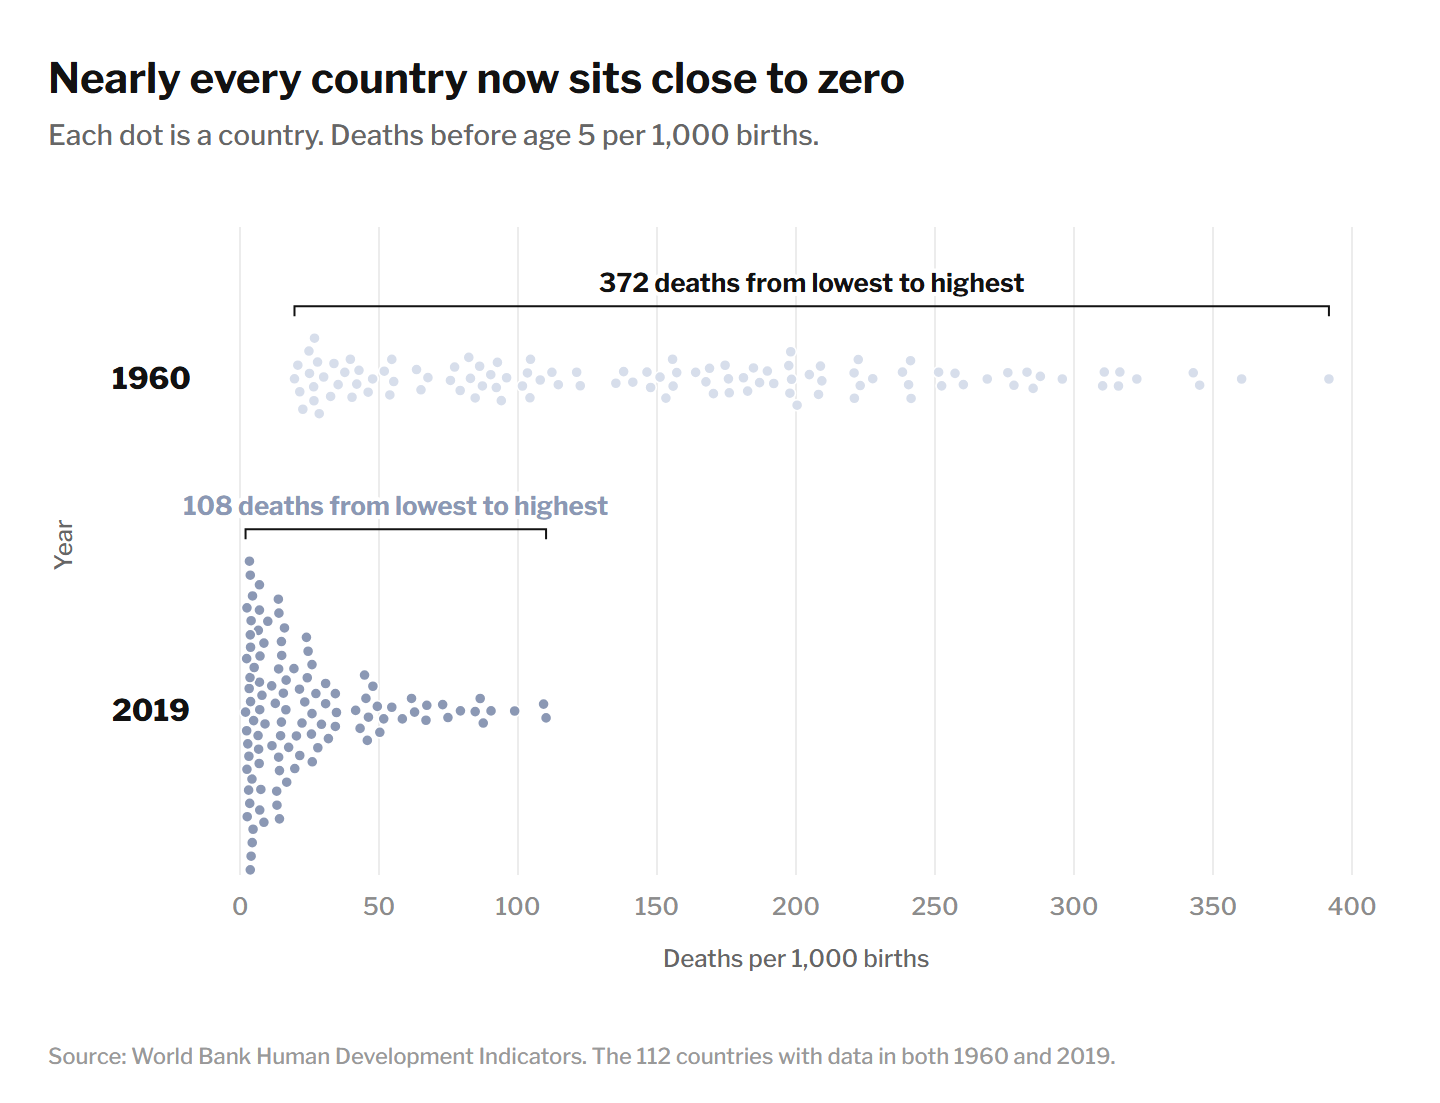
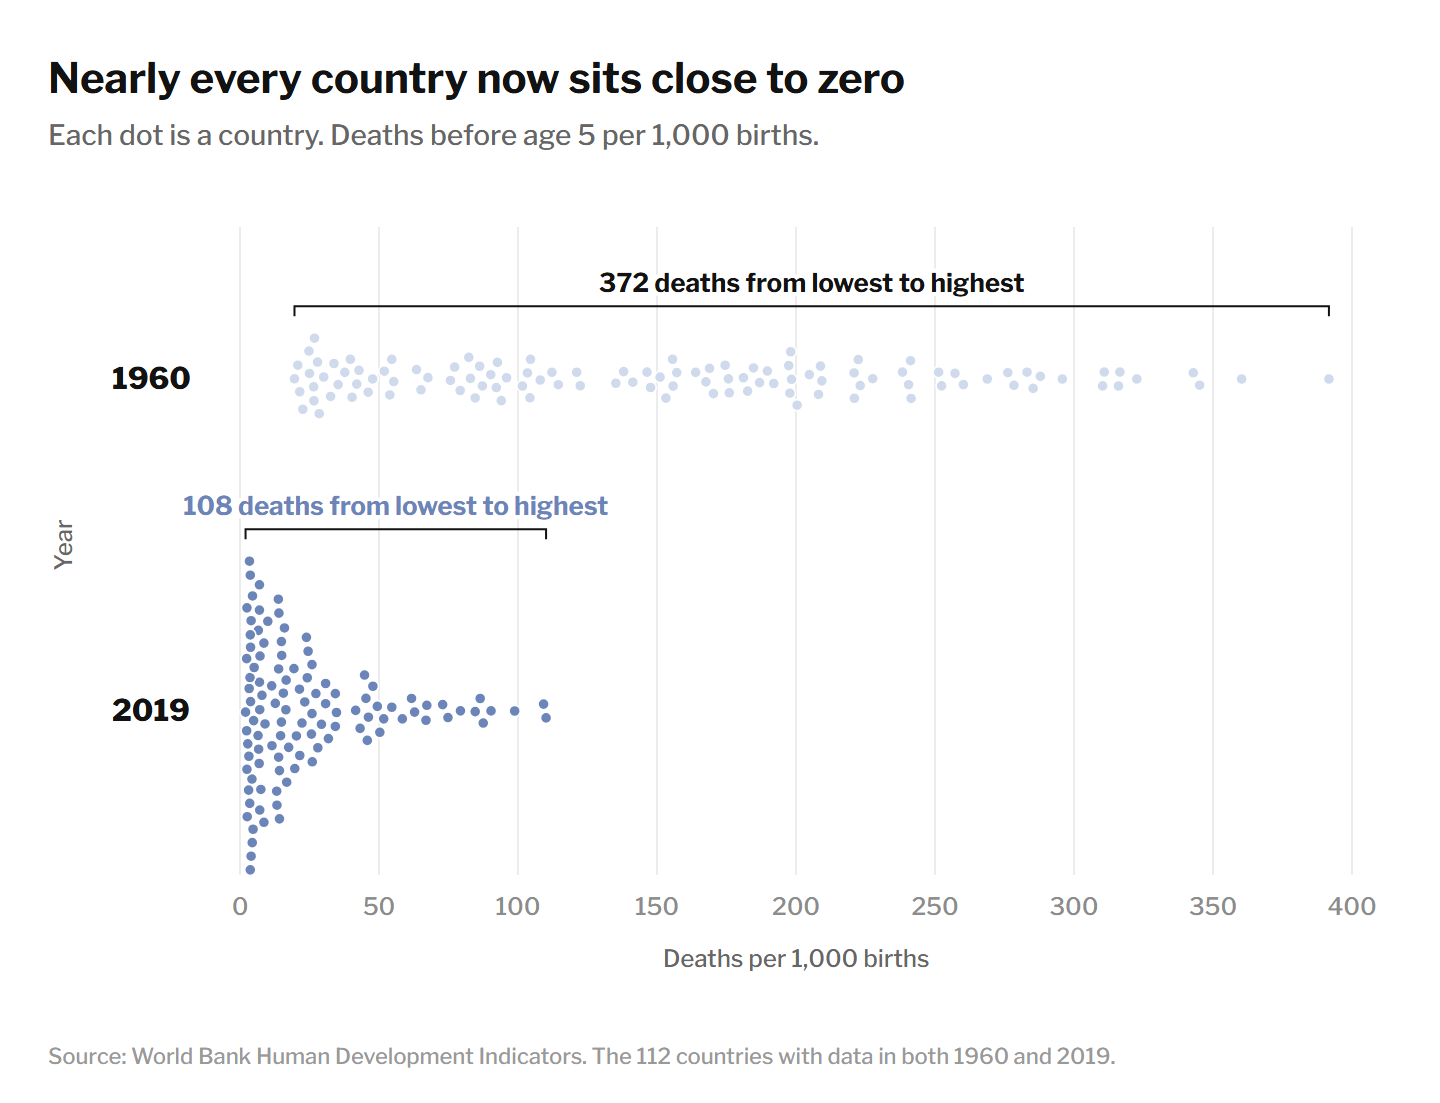
Figure 5: find-a-country search with rank readout; stronger versions of the original palette

Changed region(s): [[0.1562, 0.524, 0.3438, 0.7706], [0.125, 0.4316, 0.4062, 0.4624]]

diff --git a/charts/explorer.js b/charts/explorer.js
@@ -3,7 +3,7 @@
 (function () {
   const root = document.getElementById("explorer");
   if (!root) return;
-  const BLUE = "#8b98b4", CORAL = "#7f9fa8", DOT = "#8b98b4", INK = "#121212";
+  const BLUE = "#6c85b9", CORAL = "#5f9daf", DOT = "#8e98a4", INK = "#121212", FOCUS = "#26262c";
   const f0 = (v) => String(Math.round(v));
   const f1 = (v) => (Math.round(v * 10 + 1e-9) / 10).toFixed(1);
   const YEARS = d3.range(1960, 2020);
@@ -26,6 +26,15 @@
     </div>
     <div class="frame ex-stage">
       <p class="ex-title">Under-five mortality in 112 countries</p>
+      <div class="ex-find">
+        <span class="ex-find-box">
+          <input type="search" list="ex-countries" placeholder="Find a country" aria-label="Find a country" autocomplete="off" />
+          <button type="button" class="ex-clear" aria-label="Clear country" hidden>&times;</button>
+        </span>
+        <span class="ex-picks">Try <button type="button">India</button><button type="button">Sierra Leone</button><button type="button">Sweden</button></span>
+        <datalist id="ex-countries"></datalist>
+      </div>
+      <p class="ex-focus" aria-live="polite"></p>
       <div class="ex-chart"><svg></svg><div class="ex-tip" hidden></div></div>
       <input class="ex-slider" type="range" min="1960" max="2019" step="1" value="1960" aria-label="Year" />
     </div>
@@ -45,13 +54,14 @@
   const $ = (s) => root.querySelector(s);
   const resume = $(".ex-resume"), yearEl = $(".ex-year"), slider = $(".ex-slider"), chart = $(".ex-chart"), tip = $(".ex-tip");
   const svg = d3.select($(".ex-chart svg"));
-  const state = { year: 1960, mode: "linear", playing: false, timer: null, width: 0, range: "80" };
+  const state = { year: 1960, mode: "linear", playing: false, timer: null, width: 0, range: "80", focus: null };
   let D, S, countries, draw, comparisons, measurePlots = [];
 
   d3.json("charts/data.json").then((data) => {
     D = data;
     S = Object.fromEntries(D.stats.map((s) => [s.y, s]));
     countries = D.cohort.map((c) => ({ name: c.name, v: Object.fromEntries(c.v) }));
+    $("#ex-countries").innerHTML = countries.map(c => c.name).sort().map(n => `<option value="${n}">`).join("");
     comparisons = Object.fromEntries(["80", "50", "100"].map(range => [range, YEARS.map(y => {
       const s = S[y], vals = countries.map(c => c.v[y]).filter(v => v != null).sort(d3.ascending);
       const lo = range === "80" ? s.p10 : range === "50" ? s.p25 : vals[0];
@@ -94,6 +104,8 @@
     const t10 = svg.append("text").attr("class", "ex-pct").attr("y", MID - HB - 6).attr("text-anchor", "middle").text("10th");
     const t90 = svg.append("text").attr("class", "ex-pct").attr("y", MID - HB - 6).attr("text-anchor", "middle").text(narrow ? "90th" : "90th percentile");
     const dotsG = svg.append("g");
+    const focusLab = svg.append("text").attr("class", "ex-focus-lab").attr("text-anchor", "middle").attr("opacity", 0);
+    const RF = R * 1.9;
 
     let axisMode;
     function axis(dur) {
@@ -138,8 +150,20 @@
           .attr("fill", DOT).attr("fill-opacity", 0.8).attr("stroke", "#fff").attr("stroke-width", 0.8)
           .on("pointerenter", function (e, d) { if (e.pointerType === "mouse") showTip(d, this); })
           .on("pointerleave", (e) => { if (e.pointerType === "mouse") tip.hidden = true; })
-          .on("click", function (e, d) { e.stopPropagation(); showTip(d, this); }))
+          .on("click", function (e, d) { e.stopPropagation(); tip.hidden = true; setFocus(d.name); }))
         .transition("motion").duration(dur).ease(easing).attr("cx", (d) => d.x).attr("cy", (d) => d.y);
+      const on = (d) => d.name === state.focus;
+      dotsG.selectAll("circle").attr("r", (d) => (on(d) ? RF : R)).attr("fill", (d) => (on(d) ? FOCUS : DOT))
+        .attr("fill-opacity", (d) => (state.focus && !on(d) ? 0.45 : on(d) ? 1 : 0.8))
+        .attr("stroke", "#fff").attr("stroke-width", (d) => (on(d) ? 2 : 0.8)).filter(on).raise();
+      const fd = state.focus && layout(state.mode, state.year).get(state.focus);
+      if (fd) {
+        const lx = Math.max(40, Math.min(W - 40, fd.x));
+        focusLab.text(state.focus).attr("opacity", 1).transition("motion").duration(dur).ease(easing)
+          .attr("x", lx).attr("y", Math.max(12, fd.y - RF - 7));
+        focusLab.raise();
+      } else focusLab.attr("opacity", 0);
+      focusText();
       const x10 = sc(s.lo), x90 = sc(s.hi);
       t10.text(state.range === "100" ? "Lowest" : state.range === "50" ? "25th" : "10th");
       t90.text(state.range === "100" ? "Highest" : state.range === "50" ? (narrow ? "75th" : "75th percentile") : narrow ? "90th" : "90th percentile");
@@ -213,6 +237,30 @@
       el.querySelector(".ex-verdict").textContent = state.year === 1960 ? "1960 value" : `${Math.abs(change) < 0.5 ? "<1" : Math.round(Math.abs(change))}% ${change < 0 ? "lower" : "higher"} since 1960`;
     });
   }
+
+  // Follow one country through the animation
+  const input = $(".ex-find input"), clear = $(".ex-clear"), focusEl = $(".ex-focus");
+  function focusText() {
+    if (!state.focus) { focusEl.textContent = "Search for a country, or tap a dot, to follow it through every year."; focusEl.classList.remove("on"); return; }
+    const c = countries.find(c => c.name === state.focus), v = c.v[state.year];
+    const vals = countries.map(o => o.v[state.year]).filter(x => x != null).sort(d3.ascending);
+    const rank = vals.findIndex(x => x >= v) + 1, ch = (v / c.v[1960] - 1) * 100;
+    focusEl.innerHTML = `<b>${state.focus}</b> ${state.year}: <b>${f1(v)}</b> deaths per 1,000 births · ` +
+      `ranked ${rank} of ${vals.length} (1 = lowest)` + (state.year === 1960 ? "" : ` · ${Math.round(Math.abs(ch))}% ${ch < 0 ? "lower" : "higher"} than in 1960`);
+    focusEl.classList.add("on");
+  }
+  function setFocus(name) {
+    const hit = name && countries.find(c => c.name.toLowerCase() === name.trim().toLowerCase());
+    state.focus = hit ? hit.name : null;
+    input.value = state.focus || "";
+    clear.hidden = !state.focus;
+    if (draw) draw(250);
+  }
+  input.addEventListener("input", () => { const hit = countries.find(c => c.name.toLowerCase() === input.value.trim().toLowerCase()); if (hit) setFocus(hit.name); });
+  input.addEventListener("change", () => setFocus(input.value));
+  input.addEventListener("keydown", (e) => { if (e.key === "Enter") { const q = input.value.trim().toLowerCase(); const m = countries.find(c => c.name.toLowerCase().startsWith(q)); setFocus(m ? m.name : input.value); } });
+  clear.addEventListener("click", () => setFocus(null));
+  root.querySelectorAll(".ex-picks button").forEach(b => b.addEventListener("click", () => setFocus(b.textContent)));
 
   function setSelection(mode, range) {
     state.mode = mode;

diff --git a/index.html b/index.html
@@ -21,8 +21,8 @@
                 --head: #141416;
                 --dim: #71717e;
                 --accent: #c9a37e;
-                --gold: #8b98b4;
-                --red: #7f9fa8;
+                --gold: #6c85b9;
+                --red: #5f9daf;
                 --deceptive: #3b3b44;
                 --earnest: #3b3b44;
                 --sans: ui-sans-serif, system-ui, -apple-system, "Segoe UI", sans-serif;
@@ -79,6 +79,19 @@
             .ex-chart svg { display: block; max-width: 100%; overflow: visible; touch-action: manipulation; }
             .ex-tick { font-size: 11.5px; fill: #8c8c8c; font-variant-numeric: tabular-nums; }
             .ex-pct { font-size: 11.5px; fill: #555; font-weight: 600; paint-order: stroke; stroke: #fff; stroke-width: 3px; }
+            .ex-find { display: flex; flex-wrap: wrap; align-items: center; gap: 8px 14px; margin: 8px 0 4px; }
+            .ex-find-box { position: relative; display: inline-flex; flex: 0 1 240px; min-width: 170px; }
+            .ex-find input { width: 100%; font: 400 0.88rem var(--sans); color: var(--head); padding: 6px 28px 6px 10px; border: 1px solid var(--line); border-radius: 6px; background: #fff; }
+            .ex-find input:focus { outline: none; border-color: #9aa3b2; box-shadow: 0 0 0 3px rgba(108,133,185,.15); }
+            .ex-find input::-webkit-search-cancel-button { display: none; }
+            .ex-clear { position: absolute; right: 4px; top: 50%; transform: translateY(-50%); border: 0; background: none; color: var(--dim); font-size: 18px; line-height: 1; cursor: pointer; padding: 2px 6px; }
+            .ex-picks { font-size: 0.8rem; color: var(--dim); display: inline-flex; flex-wrap: wrap; gap: 6px; align-items: center; }
+            .ex-picks button { font: 500 0.8rem var(--sans); color: var(--body); background: var(--raise); border: 1px solid var(--line); border-radius: 999px; padding: 2px 10px; cursor: pointer; }
+            .ex-picks button:hover { border-color: #94949e; }
+            .ex-focus { font-size: 0.82rem; color: var(--dim); margin: 2px 0 0; min-height: 1.4em; line-height: 1.4; }
+            .ex-focus.on { color: var(--body); }
+            .ex-focus b { color: var(--head); font-weight: 600; }
+            .ex-focus-lab { font-size: 12px; font-weight: 700; fill: #26262c; paint-order: stroke; stroke: #fff; stroke-width: 4px; stroke-linejoin: round; pointer-events: none; }
             .ex-tip { position: absolute; pointer-events: none; background: #fff; border: 1px solid #ddd; border-radius: 3px; padding: 5px 8px; font-size: 12px; line-height: 1.35; white-space: nowrap; }
             .ex-tip b { display: block; color: #303b40; }
             .ex-measures { display: grid; grid-template-columns: minmax(0,1fr) minmax(0,1fr); gap: 28px; margin-top: 16px; padding: 18px 20px 10px; }
@@ -446,7 +459,7 @@
                                 <span class="dec-title">Draw 2019 in a stronger color and 1960 in a pale <span class="dec-tail">one</span></span>
                                 <span class="score" data-score="-0.5"></span>
                             </div>
-                            <p>The darker green draws attention to the 2019 row and its wider range, while the pale 1960 row recedes. The color difference implies that 2019 is the more troubling year, which the data do not support for any individual country.</p>
+                            <p>The stronger teal draws attention to the 2019 row and its wider range, while the pale 1960 row recedes. The color difference implies that 2019 is the more troubling year, which the data do not support for any individual country.</p>
                         </li>
                     </ol>
                 </section>
@@ -455,12 +468,13 @@
                 <p>
                     Watch all 112 countries from 1960 to 2019. Each comparison runs through every year on a linear scale,
                     then repeats on a logarithmic scale: first the middle 80%, then the middle 50%, then the full range.
-                    Use the scale or comparison buttons to stop and explore.
+                    Use the scale or comparison buttons to stop and explore, and search for a country, or tap its dot, to
+                    follow it through every year with its rank among the 112.
                 </p>
 
                 <figure class="graphic">
                     <div class="explorer" id="explorer" aria-label="Interactive animation of under-five mortality in 112 countries from 1960 to 2019"></div>
-                    <figcaption><b>Figure 5.</b> Under-five mortality in each of the 112 countries, 1960 to 2019. Shading marks the selected comparison. The two charts below show its difference and ratio; dashed lines show 1960 values. Use the slider to select a year.</figcaption>
+                    <figcaption><b>Figure 5.</b> Under-five mortality in each of the 112 countries, 1960 to 2019. Shading marks the selected comparison. The two charts below show its difference and ratio; dashed lines show 1960 values. Use the slider to select a year, and search to highlight a single country.</figcaption>
                 </figure>
 
                 <figure class="graphic">
@@ -598,7 +612,7 @@
                 el("text", { transform: "translate(12,132) rotate(-90)", "text-anchor": "middle", "font-size": 12, fill: "#71717e" }, "Figure");
                 el("text", { x: x(-2), y: 12, "font-size": 11, fill: "#71717e", "font-weight": 700, "letter-spacing": "0.06em" }, narrow ? "← DECEPTIVE" : "← MORE DECEPTIVE");
                 el("text", { x: x(2), y: 12, "font-size": 11, fill: "#71717e", "font-weight": 700, "text-anchor": "end", "letter-spacing": "0.06em" }, narrow ? "EARNEST →" : "MORE EARNEST →");
-                [["for1", "Figure 1", "#8b98b4"], ["for2", "Figure 2", "#8b98b4"], ["against1", "Figure 3", "#7f9fa8"], ["against2", "Figure 4", "#7f9fa8"]].forEach(([key, label, color], r) => {
+                [["for1", "Figure 1", "#6c85b9"], ["for2", "Figure 2", "#6c85b9"], ["against1", "Figure 3", "#5f9daf"], ["against2", "Figure 4", "#5f9daf"]].forEach(([key, label, color], r) => {
                     const y = 58 + r * 52;
                     el("text", { x: 28, y: y + 5, "font-size": narrow ? 12.5 : 13.5, "font-weight": 700, fill: color }, narrow ? label.replace("Figure ", "Fig. ") : label);
                     el("line", { x1: x(-2), x2: x(2), y1: y, y2: y, stroke: "#d4d6dc", "stroke-width": 1 });

diff --git a/charts/chart.html b/charts/chart.html
@@ -11,8 +11,8 @@
 <script src="https://cdnjs.cloudflare.com/ajax/libs/d3/7.9.0/d3.min.js"></script>
 <style>
   :root { --ink: #121212; --mid: #666; --soft: #8c8c8c; --rule: #ececec;
-          --teal: #8b98b4; --teal-2: #d7deeb; --teal-fill: #edf0f6;
-          --orange: #7f9fa8; --orange-2: #c3d5db; }
+          --teal: #6c85b9; --teal-2: #d0daed; --teal-fill: #e8edf6;
+          --orange: #5f9daf; --orange-2: #bbd5de; }
   html, body { margin: 0; background: #fff; }
   body { font-family: "Libre Franklin", "Franklin Gothic Book", Arial, sans-serif; color: #333; }
   #wrap { width: 720px; padding: 26px 24px 20px; box-sizing: border-box; }
@@ -136,16 +136,16 @@ function for1(D) {   // percentile fan chart
   const { x, y } = timeFrame(390, 300, [100, 200, 300], String, "Deaths before age 5 per 1,000 live births", 102, 144, 34);
   const area = (a, b) => d3.area().x(d => x(d.y)).y0(d => y(d[a])).y1(d => y(d[b])).curve(d3.curveMonotoneX);
   const line = k => d3.line().x(d => x(d.y)).y(d => y(d[k])).curve(d3.curveMonotoneX);
-  g.append("path").datum(S).attr("fill", "#edf0f6").attr("d", area("p10", "p90"));
-  g.append("path").datum(S).attr("fill", "#d4dbea").attr("d", area("p25", "p75"));
+  g.append("path").datum(S).attr("fill", "#e8edf6").attr("d", area("p10", "p90"));
+  g.append("path").datum(S).attr("fill", "#cdd7ec").attr("d", area("p25", "p75"));
   ["p10", "p90"].forEach(k => g.append("path").datum(S).attr("fill", "none").attr("stroke", TEAL).attr("stroke-width", 1.2).attr("opacity", 0.8).attr("d", line(k)));
-  g.append("path").datum(S).attr("fill", "none").attr("stroke", "#657693").attr("stroke-width", 2.6).attr("d", line("med"));
+  g.append("path").datum(S).attr("fill", "none").attr("stroke", "#4b6693").attr("stroke-width", 2.6).attr("d", line("med"));
 
   // inline band labels where the fan is widest
   const at = S.find(s => s.y === 1972);
   text(gTop, x(1972), y((at.p75 + at.p90) / 2) + 4, "Middle 80% of countries", "lab halo", TEAL, "middle");
-  text(gTop, x(1972), y((at.med + at.p75) / 2) + 4, "Middle 50%", "lab halo", "#657693", "middle");
-  text(gTop, x(1982), y(S.find(s => s.y === 1982).med) - 9, "Median", "lab halo", "#657693", "middle");
+  text(gTop, x(1972), y((at.med + at.p75) / 2) + 4, "Middle 50%", "lab halo", "#4b6693", "middle");
+  text(gTop, x(1982), y(S.find(s => s.y === 1982).med) - 9, "Median", "lab halo", "#4b6693", "middle");
 
   // Keep both endpoint brackets; the wider left margin separates the 1960 label from the axis and fan.
   const bracket = (s, bx, dir, year) => {
